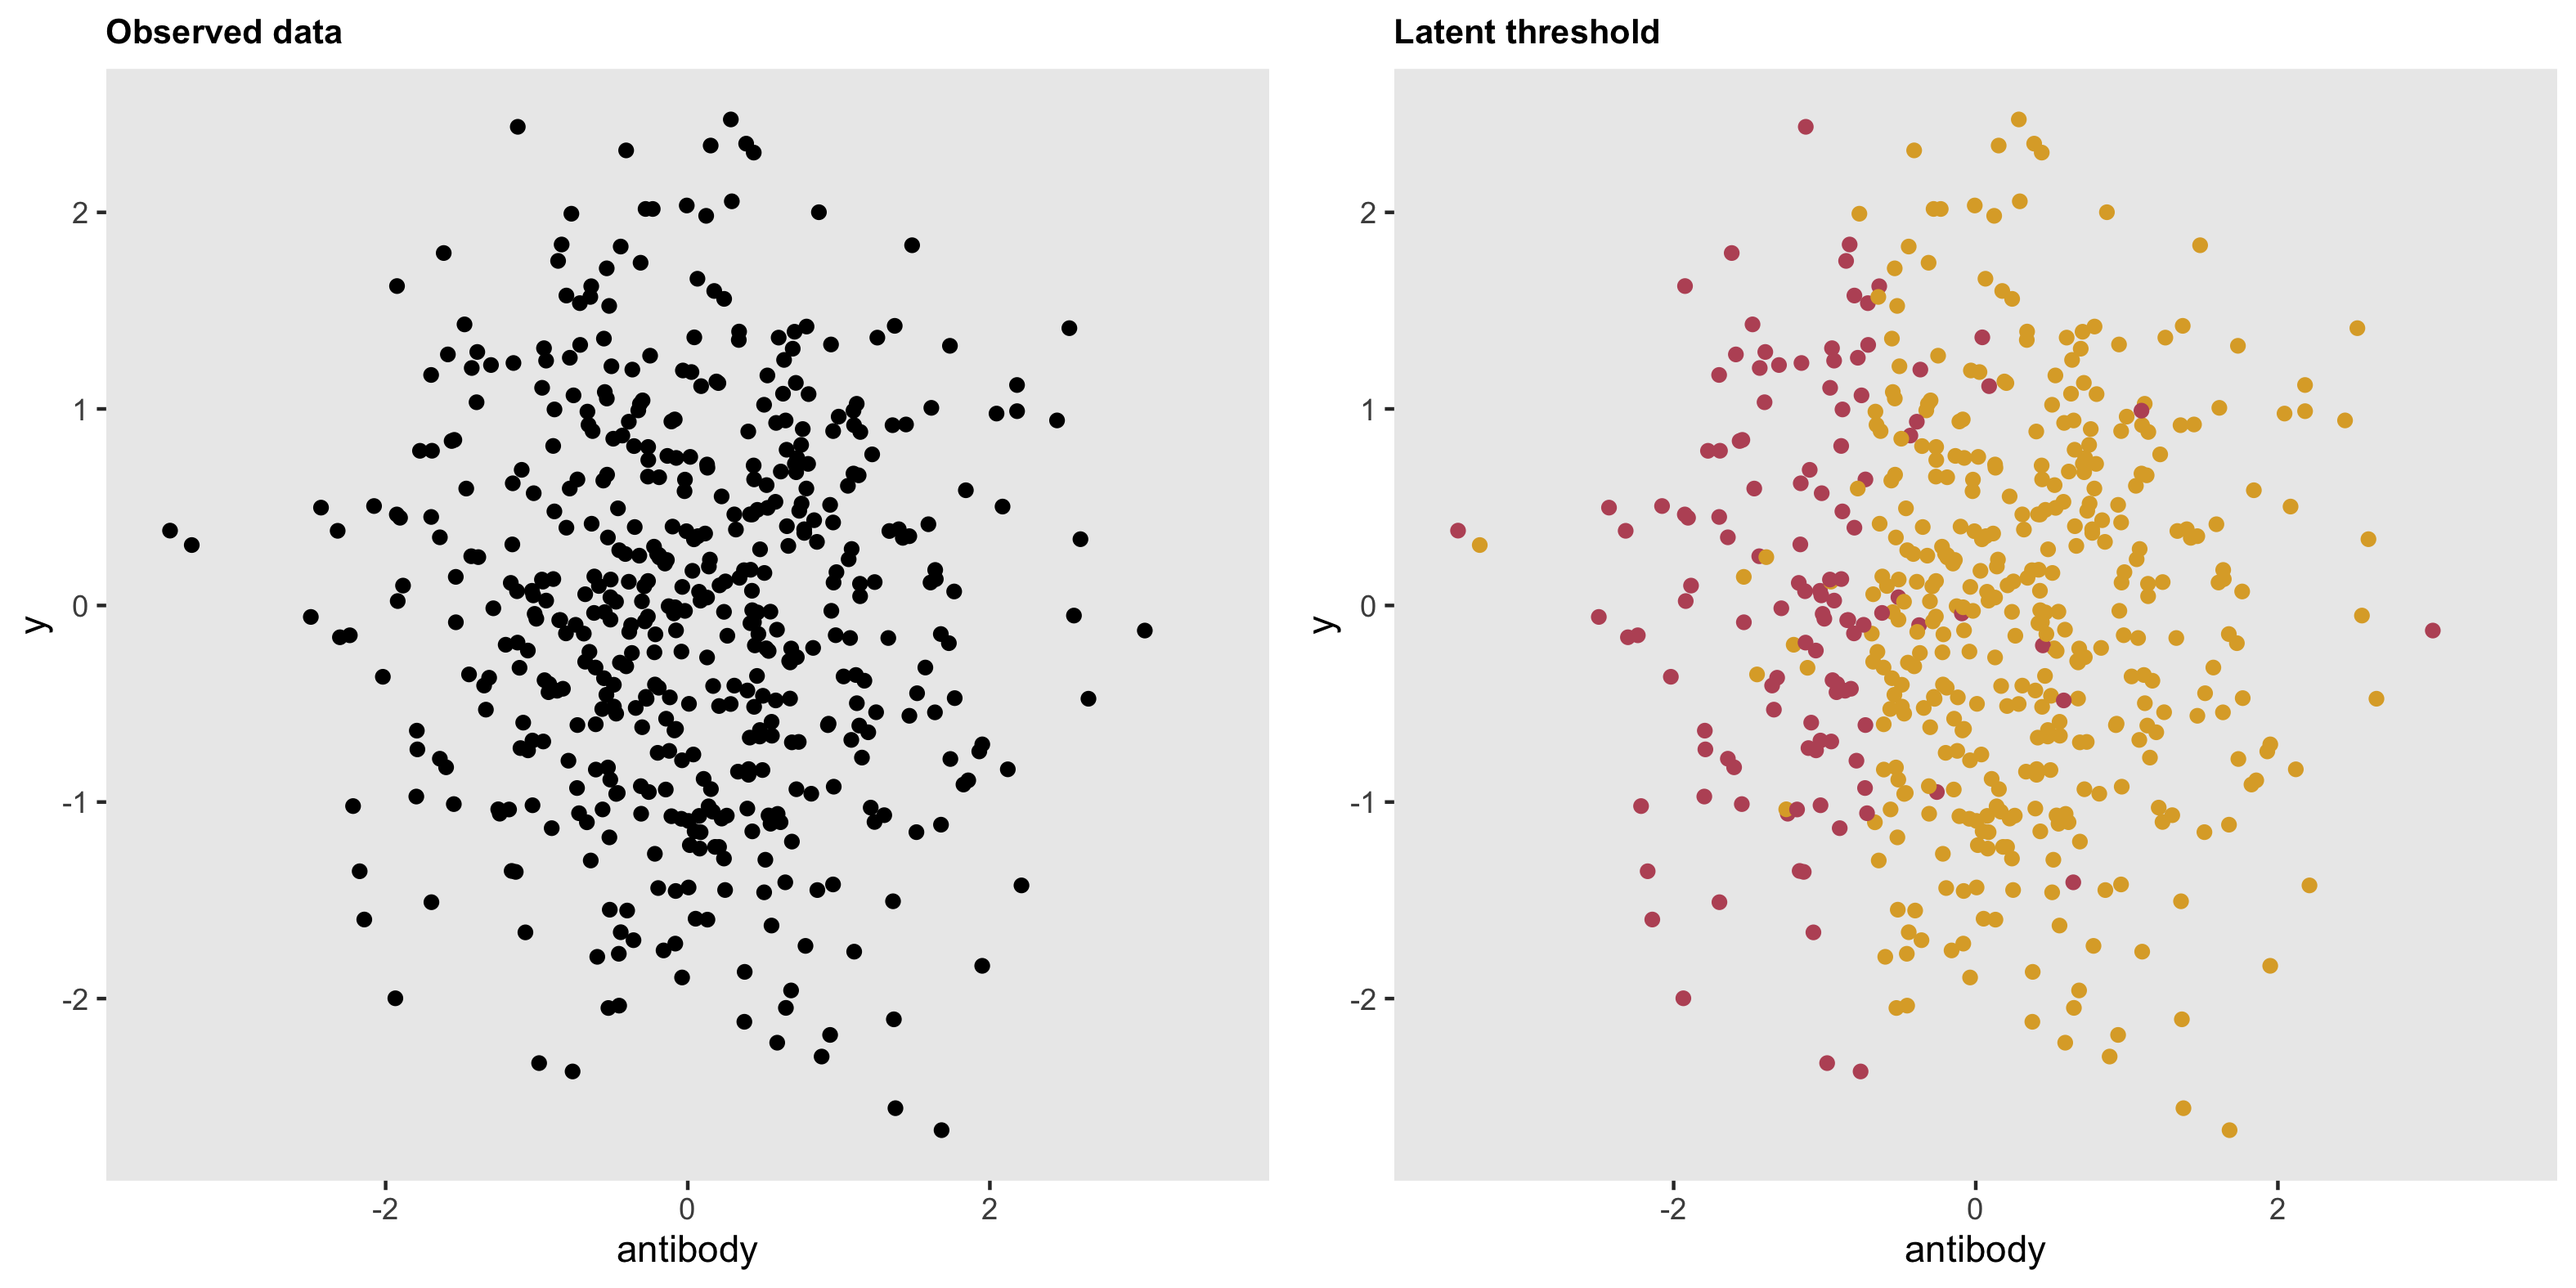
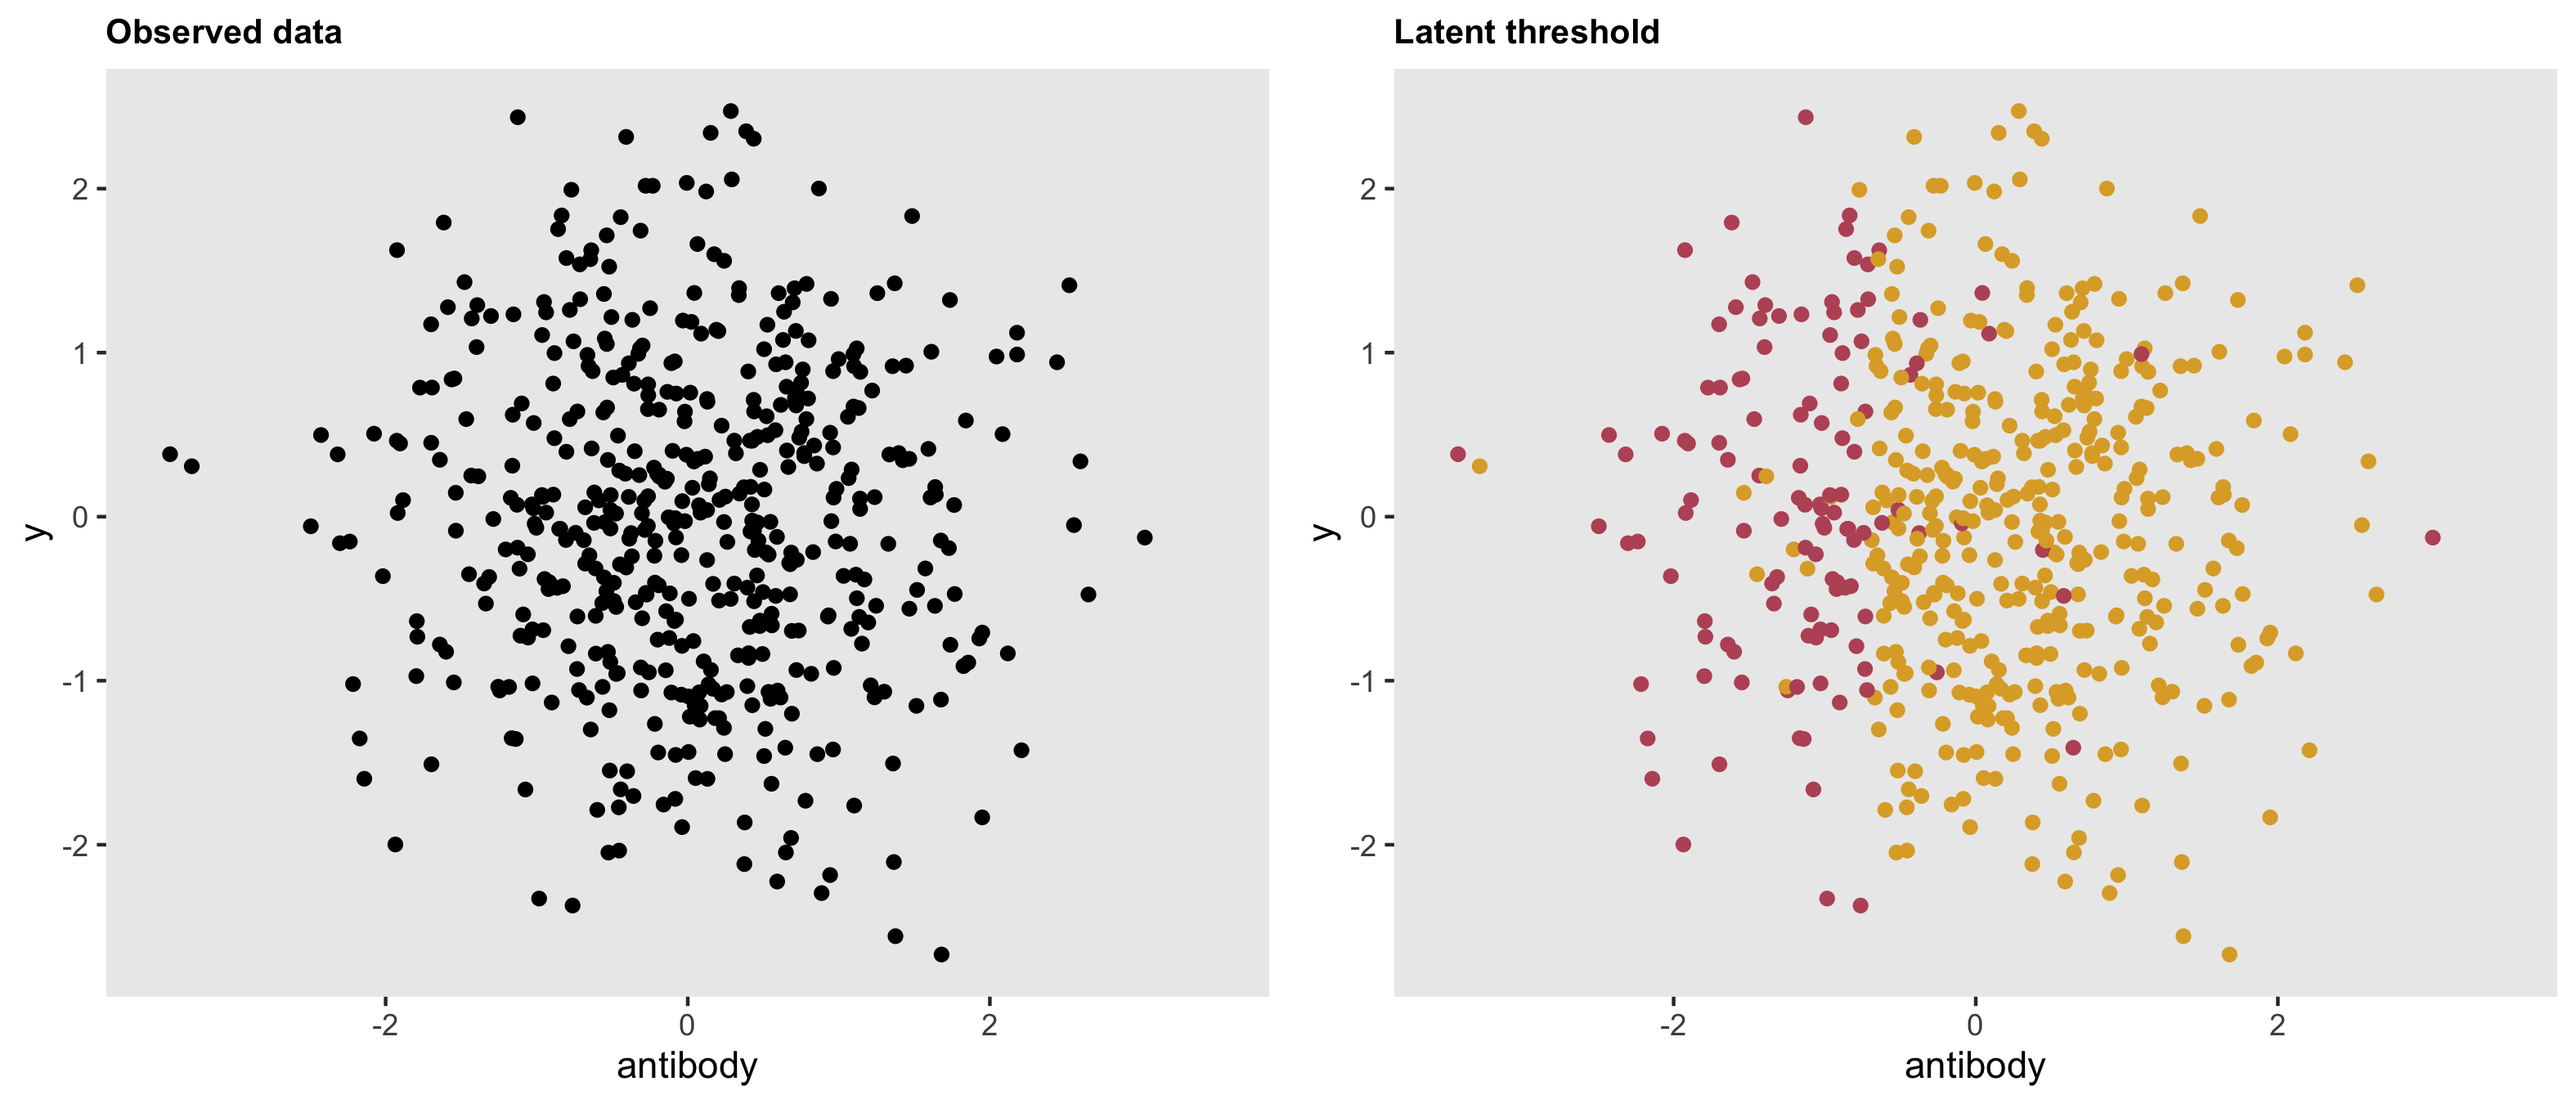
Fixing images

diff --git a/content/post/2020-12-08-a-bayes-latent-threshold-model.en.html b/content/post/2020-12-08-a-bayes-latent-threshold-model.en.html
@@ -86,7 +86,7 @@ d1 &lt;- defData(d1, varname = &quot;y&quot;, formula = &quot;0 + 3 * latent_sta
 
 dd &lt;- genData(500, d1)</code></pre>
 <p>The threshold is quite apparent here. In the right hand plot, the latent classes are revealed.</p>
-<p><img src="/img/post-bayesthreshold/p3.png" style="height:80.0%" /></p>
+<p><img src="/img/post-bayesthreshold/p3.png" style="width:90.0%" /></p>
 </div>
 <div id="model-fitting" class="section level3">
 <h3>Model fitting</h3>
@@ -134,7 +134,7 @@ mcmc_trace(posterior, pars = c(&quot;alpha&quot;,&quot;beta&quot;, &quot;sigma&q
 <pre class="r"><code>d1 &lt;- updateDef(d1, changevar = &quot;y&quot;, newformula = &quot;0&quot;)
 dd &lt;- genData(500, d1)</code></pre>
 <p>Here is a plot of the data based on the updated assumption:</p>
-<p><img src="/img/post-bayesthreshold/p0.png" style="height:80.0%" /></p>
+<p><img src="/img/post-bayesthreshold/p0.png" style="width:90.0%" /></p>
 <p>And here are the posterior probabilities for the parameters - now with much wider credible intervals:</p>
 <p><img src="/img/post-bayesthreshold/estimates0.png" style="width:70.0%" /></p>
 <p>Here is the posterior distribution of thresholds, intentionally plotted to highlight the lack of distinction across the candidate thresholds:</p>
